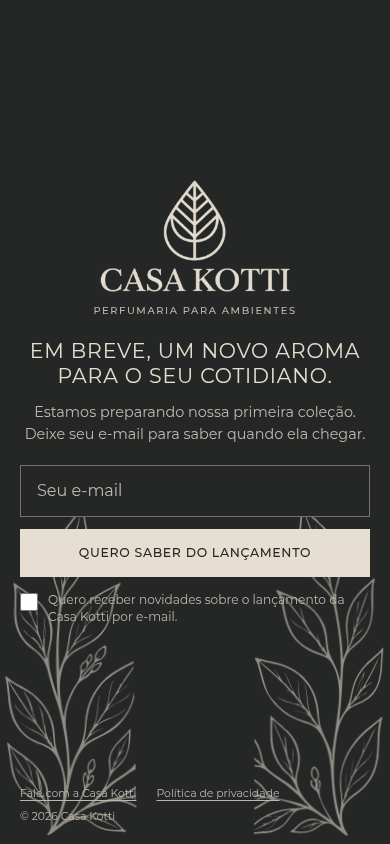
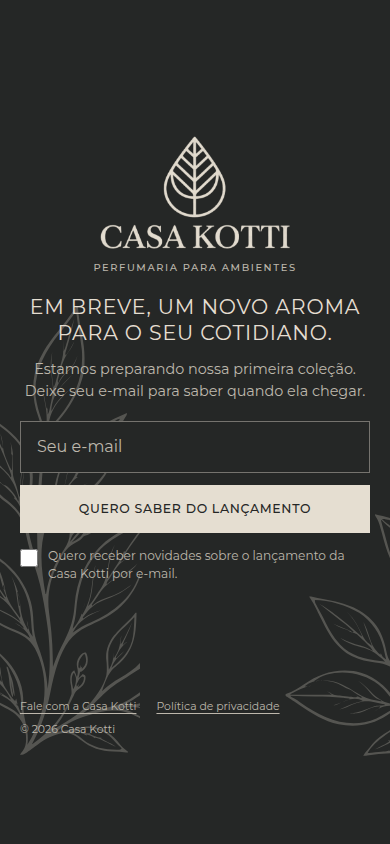
Raise SVG foliage to a full-page side frame
Drop the short 2:3 card, pin a full-bleed decorative layer to the main container, scale each branch to the lower 60 percent with lateral clipping, and keep a single 25 percent opacity plus stem-based sway.

Changed region(s): [[0.0, 0.154, 1.0, 1.0]]

diff --git a/theme/casa-kotti/assets/css/main.css b/theme/casa-kotti/assets/css/main.css
@@ -69,25 +69,19 @@ input:focus-visible {
 
 .ck-foliage-layer {
 	position: absolute;
-	left: 50%;
-	bottom: 0;
+	inset: 0;
 	z-index: 0;
-	width: 100%;
-	max-width: min(42rem, calc(100svh * 2 / 3));
-	aspect-ratio: 2 / 3;
 	overflow: hidden;
 	pointer-events: none;
-	transform: translateX(-50%);
 }
 
 .ck-foliage {
 	position: absolute;
+	top: 40%;
 	bottom: 0;
-	width: 35%;
-	height: 60%;
+	width: 36%;
 	overflow: hidden;
-	color: var(--ck-foliage);
-	opacity: 0.55;
+	color: #e5ded1;
 }
 
 .ck-foliage--left {
@@ -99,23 +93,28 @@ input:focus-visible {
 }
 
 .ck-foliage__motion {
-	width: 100%;
 	height: 100%;
-	transform-origin: 0 100%;
+	width: auto;
+	aspect-ratio: 27.2 / 41.8;
+	transform-origin: 18% 100%;
+}
+
+.ck-foliage--left .ck-foliage__motion {
+	translate: -12% 0;
 }
 
 .ck-foliage--right .ck-foliage__motion {
-	transform-origin: 100% 100%;
+	margin-left: auto;
+	aspect-ratio: 24.8 / 41.8;
+	translate: 12% 0;
+	transform-origin: 82% 100%;
 }
 
 .ck-foliage-art {
 	display: block;
-	width: 100%;
 	height: 100%;
-}
-
-.ck-foliage-art path {
-	fill: currentColor;
+	width: auto;
+	max-width: none;
 }
 
 .ck-main,

diff --git a/theme/casa-kotti/style.css b/theme/casa-kotti/style.css
@@ -3,7 +3,7 @@ Theme Name: Casa Kotti Pré-lançamento
 Theme URI: https://github.com/
 Author: Casa Kotti
 Description: Tema leve para a página de pré-lançamento da Casa Kotti.
-Version: 1.5.0
+Version: 1.5.1
 Requires at least: 6.2
 Requires PHP: 7.4
 License: GNU General Public License v2 or later

diff --git a/theme/casa-kotti/functions.php b/theme/casa-kotti/functions.php
@@ -9,7 +9,7 @@ if ( ! defined( 'ABSPATH' ) ) {
 	exit;
 }
 
-define( 'CASA_KOTTI_THEME_VERSION', '1.5.0' );
+define( 'CASA_KOTTI_THEME_VERSION', '1.5.1' );
 
 function casa_kotti_setup() {
 	add_theme_support( 'title-tag' );

diff --git a/README.md b/README.md
@@ -41,7 +41,7 @@ O trecho sugerido pelo plugin para a política é apenas um ponto factual sobre 
 ## Logo e folhagens
 
 - **Logo integrado:** o símbolo e o lettering originais foram preservados em `assets/images/logo-casa-kotti.png`, com fundo transparente e proporções originais. O painel continua permitindo substituí-lo sem alterar o tema.
-- **Folhagens integradas:** os ramos originais estão em `assets/images/foliage-left.svg` e `assets/images/foliage-right.svg`. Uma camada `.ck-foliage-layer` com `aspect-ratio: 2 / 3` ancora a composição na base; cada ramo ocupa cerca de 35% da largura e 60% da altura dessa camada, com balanço suave na base do caule.
+- **Folhagens integradas:** os ramos originais estão em `assets/images/foliage-left.svg` e `assets/images/foliage-right.svg`. Os ramos originais ficam numa camada `inset: 0` atrás do conteúdo. Cada um é escalado à ~60% da altura do contêiner, com recorte lateral; o balanço continua na base do caule.
 
 Para gerar novamente os pacotes:
 

diff --git a/VALIDATION.md b/VALIDATION.md
@@ -2,9 +2,9 @@
 
 Data: 15 de setembro de 2026.
 
-## Composição SVG 2:3 (tema 1.5.0)
+## Composição SVG (tema 1.5.1)
 
-Camada `.ck-foliage-layer` com `aspect-ratio: 2 / 3`, 100% da largura no mobile, alinhada à base. Ramos dimensionados em 35% × 60% da camada, `slice` sem distorção, animação só no wrapper interno. Sem JPEG de fundo.
+Camada `.ck-foliage-layer` com `inset: 0` no `.ck-page` (`min-height: 100svh`). Ramos com altura 60% do contêiner, escala uniforme, excesso lateral recortado, opacidade 0,25. Sem quadro 2:3.
 
 ## Função (já exercitada nesta entrega)
 
